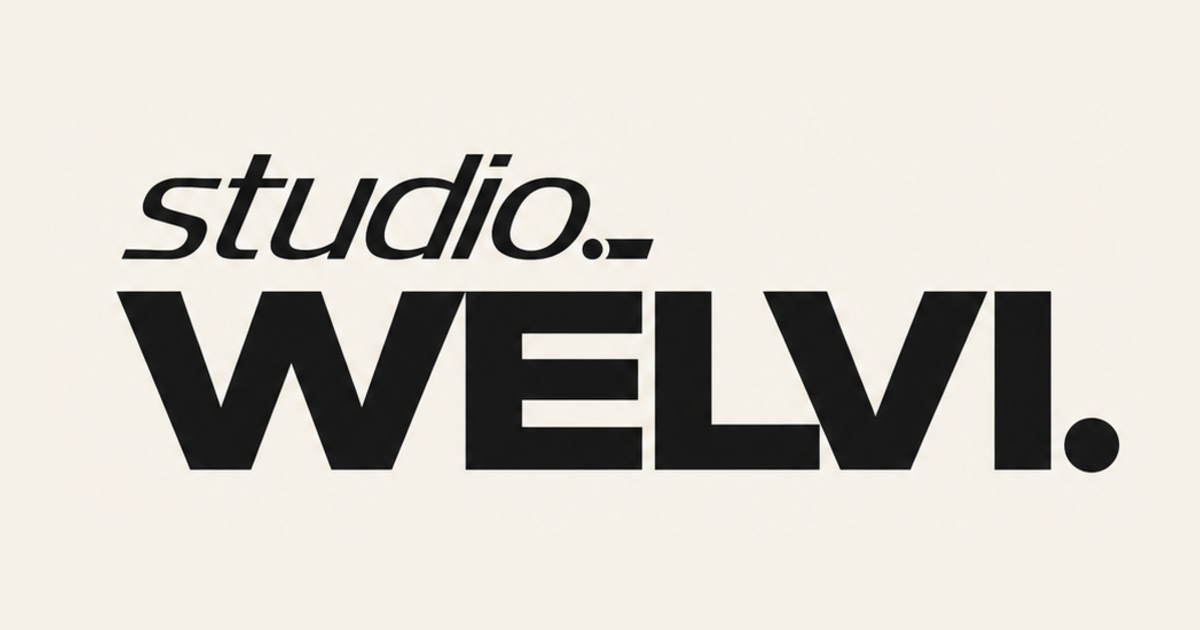
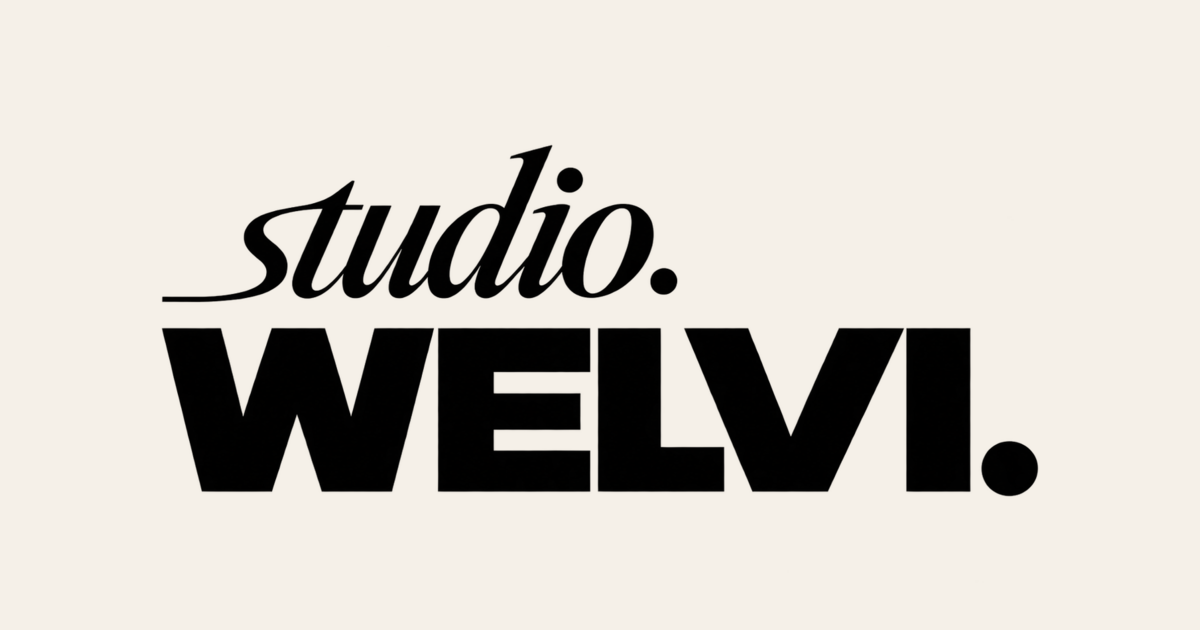
Add files via upload

Changed region(s): [[0.0925, 0.2111, 0.9558, 0.7841]]

diff --git a/index.html b/index.html
@@ -8,11 +8,14 @@
     <meta name="theme-color" content="#18251f" />
     <meta name="robots" content="index, follow" />
     <link rel="canonical" href="https://www.welvi.lu/" />
-    <link rel="icon" href="assets/favicon.svg" type="image/svg+xml" />
+    <link rel="icon" href="favicon.ico" sizes="any" />
+    <link rel="icon" href="assets/favicon-32.png" type="image/png" sizes="32x32" />
+    <link rel="apple-touch-icon" href="assets/apple-touch-icon.png" />
     <link rel="preconnect" href="https://fonts.googleapis.com" />
     <link rel="preconnect" href="https://fonts.gstatic.com" crossorigin />
     <link href="https://fonts.googleapis.com/css2?family=DM+Sans:wght@400;500;600;700&family=Manrope:wght@400;500;600;700;800&display=swap" rel="stylesheet" />
     <link rel="stylesheet" href="styles.css" />
+    <link rel="stylesheet" href="logo.css" />
     <meta property="og:type" content="website" />
     <meta property="og:locale" content="fr_LU" />
     <meta property="og:title" content="Studio WELVI — Votre meilleure vitrine digitale" />
@@ -37,8 +40,7 @@
   <body>
     <header class="site-header">
       <a href="#accueil" class="brand" aria-label="Studio WELVI, accueil">
-        <span class="brand-studio">studio.</span>
-        <span class="brand-name">WELVI.</span>
+        <img src="assets/studio-welvi-logo.png" alt="Studio WELVI" width="164" height="100" />
       </a>
       <nav aria-label="Navigation principale">
         <a href="#expertise">Expertise</a>
@@ -129,7 +131,7 @@
     </main>
 
     <footer>
-      <a href="#accueil" class="brand brand-footer"><span class="brand-studio">studio.</span><span class="brand-name">WELVI.</span></a>
+      <a href="#accueil" class="brand brand-footer" aria-label="Studio WELVI, retour en haut"><img src="assets/studio-welvi-logo.png" alt="Studio WELVI" width="190" height="116" /></a>
       <p>Sites web & visibilité locale<br />pour les métiers du bien-être.</p>
       <div><a href="#expertise">Expertise</a><a href="#metiers">Métiers</a><a href="#methode">Méthode</a></div>
       <small>© <span id="year"></span> Studio WELVI · Luxembourg</small>

diff --git a/logo.css b/logo.css
@@ -1,0 +1,27 @@
+/* Official Studio WELVI logo placements */
+.brand {
+  display: block;
+  width: max-content;
+  line-height: 1;
+}
+
+.brand img {
+  display: block;
+  width: 164px;
+  height: auto;
+  object-fit: contain;
+}
+
+.brand-footer img {
+  width: 190px;
+}
+
+@media (max-width: 560px) {
+  .brand img {
+    width: 138px;
+  }
+
+  .brand-footer img {
+    width: 175px;
+  }
+}
